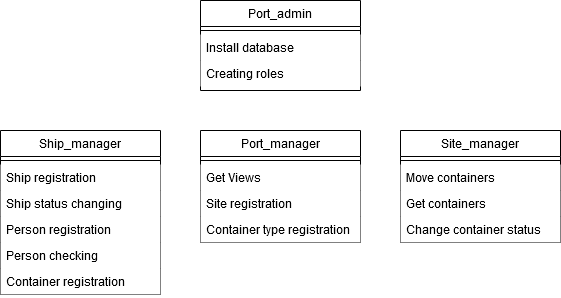
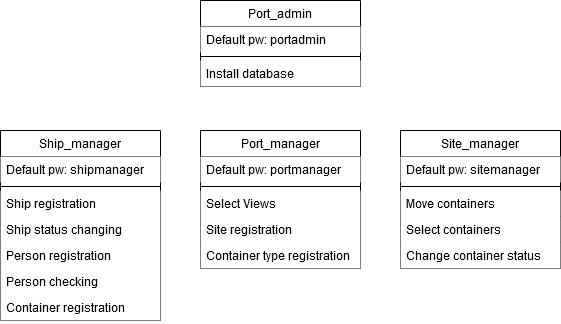
Default passwords for users - Documentation edit

diff --git a/README.md b/README.md
@@ -8,9 +8,11 @@ The task of this small project to create a record of a Port.
 
 1. Login with sys
 2. Run installer_sys.sql
-3. Login with port_admin (Default password: admin)
+3. Login with port_admin (Default password: portadmin)
 4. Run installer_port_admin.sql
-5. Done
+5. Login with sys
+6. Run installer_sys_finish.sql
+7. Done
 
 ## Roles
 
